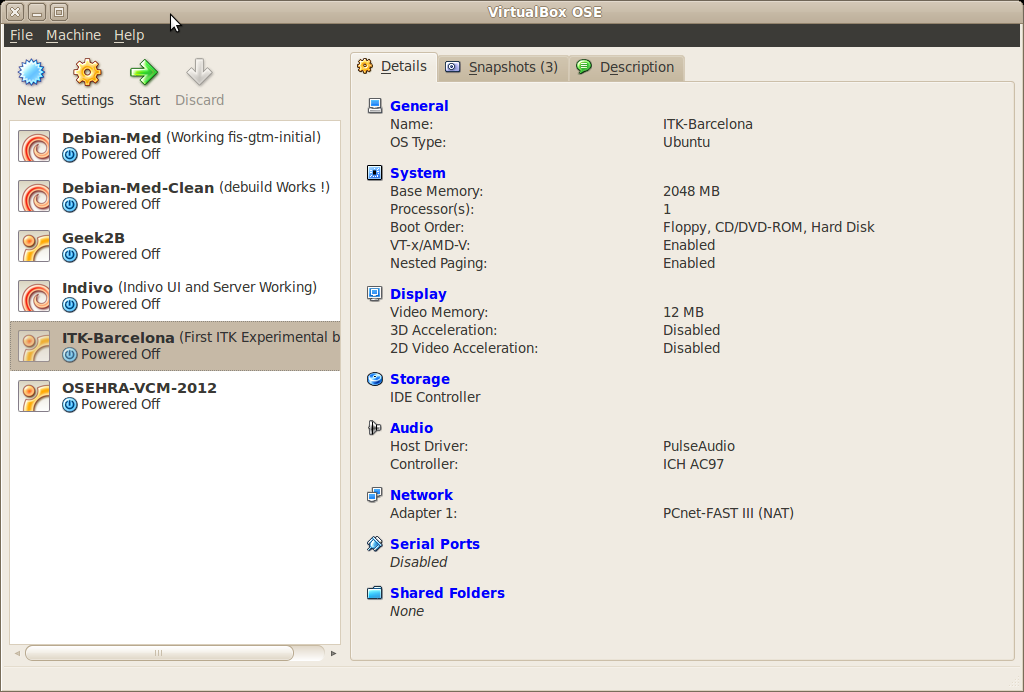
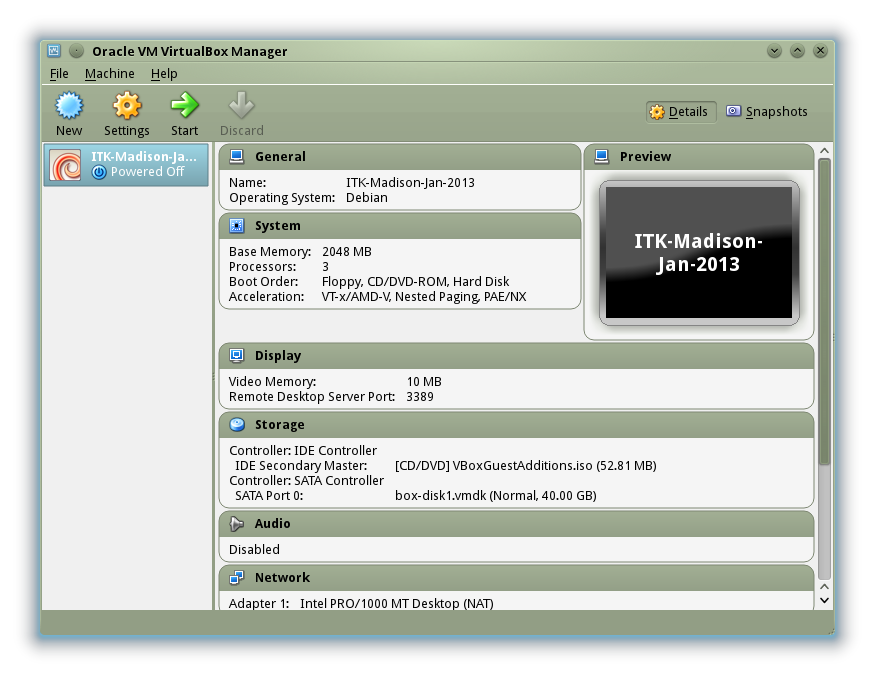
Update SoftwarePreparation1 and comment out Overview, OpenCV Bridge.

diff --git a/Documents/Tutorial/SoftwarePreparation1.tex b/Documents/Tutorial/SoftwarePreparation1.tex
@@ -7,7 +7,7 @@ Virtual Machine Preparation I
 \begin{frame}
 \frametitle{Virtual Machines Preparation}
 \begin{itemize}
-\item Get DVD / USB Memory Stick
+\item Get USB Memory Stick
 \item Install VirtualBox from it
 \item Import the VirtualMachine file
 \item Boot the Virtual Machine
@@ -23,13 +23,15 @@ Virtual Machine Preparation I
 \begin{itemize}
 \item VirtualBoxInstallers
 \begin{itemize}
-\item VirtualBox-4.1.12-77245-OSX.dmg (Mac)
-\item VirtualBox-4.1.12-77245-Win.exe (Windows)
+\item VirtualBox-4.2.6-82870-OSX.dmg (Mac)
+\item VirtualBox-4.2.6-82870-Win.exe (Windows)
+\item VirtualBox-4.2.6-82870-Linux\_amd64.run (Linux-64bit)
+\item VirtualBox-4.2.6-82870-Linux\_x86.run (Linux-32bit)
 \end{itemize}
 \pause
 \item VirtualMachine
 \begin{itemize}
-\item  ITK-Barcelona.ova
+\item  ITK-Madison-Jan-2013.ova
 \end{itemize}
 \end{itemize}
 \end{frame}
@@ -55,15 +57,10 @@ Virtual Machine Preparation I
 \begin{itemize}
 \item Run VirtualBox
 \item In ``File'' Menu select ``Import Appliance''
-\item Provide the filename in the DVD / USB stick ``VirtualMachine/ITK-Barcelona.ova"
+\item Provide the filename in the USB stick ``VirtualMachine/ITK-Madison-2013.ova"
 \item A progress bar will appear, and when it finishes you should see:
 \end{itemize}
 \begin{center}
   \includegraphics[width=0.5\paperwidth]{../Art/Screenshot-VirtualBox-OSE-01.png}
 \end{center}
 \end{frame}
-
-
-\centeredlargetext{white}{black}{
-}
-

diff --git a/Documents/Tutorial/ITKv4TheNextGenerationTutorial.tex b/Documents/Tutorial/ITKv4TheNextGenerationTutorial.tex
@@ -80,24 +80,22 @@ distributed under the\\
 \include{SoftwarePreparation1}
 
 \centeredlargetext{black}{white}{
-ITKv4
+Introduction to ITK
 }
 
-\include{Overview}
+% \include{Overview}
 
 \include{SoftwarePreparation2}
 
 \include{SoftwareEnvironment}
 
-
+\include{SimpleITK}
 
 \include{Registration}
 
 \include{ITKv4LevelSets}
 
-\include{ITKOpenCVBridge}
-
-\include{SimpleITK}
+% \include{ITKOpenCVBridge}
 
 %\include {ITK-VTK?}
 
